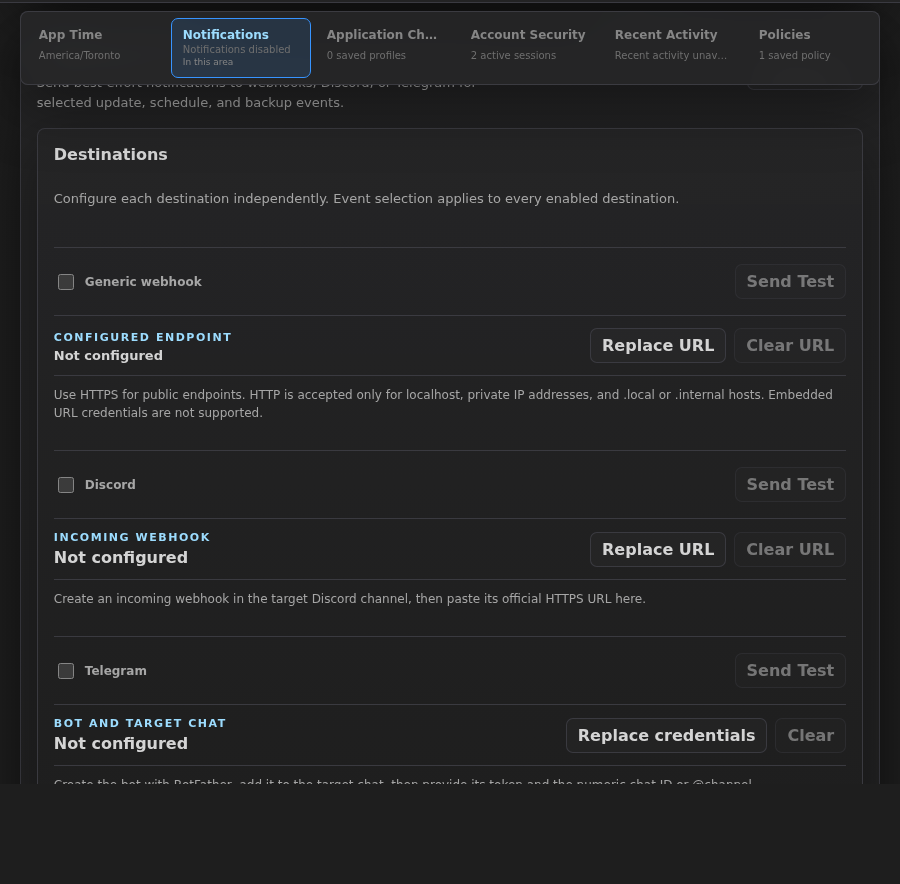
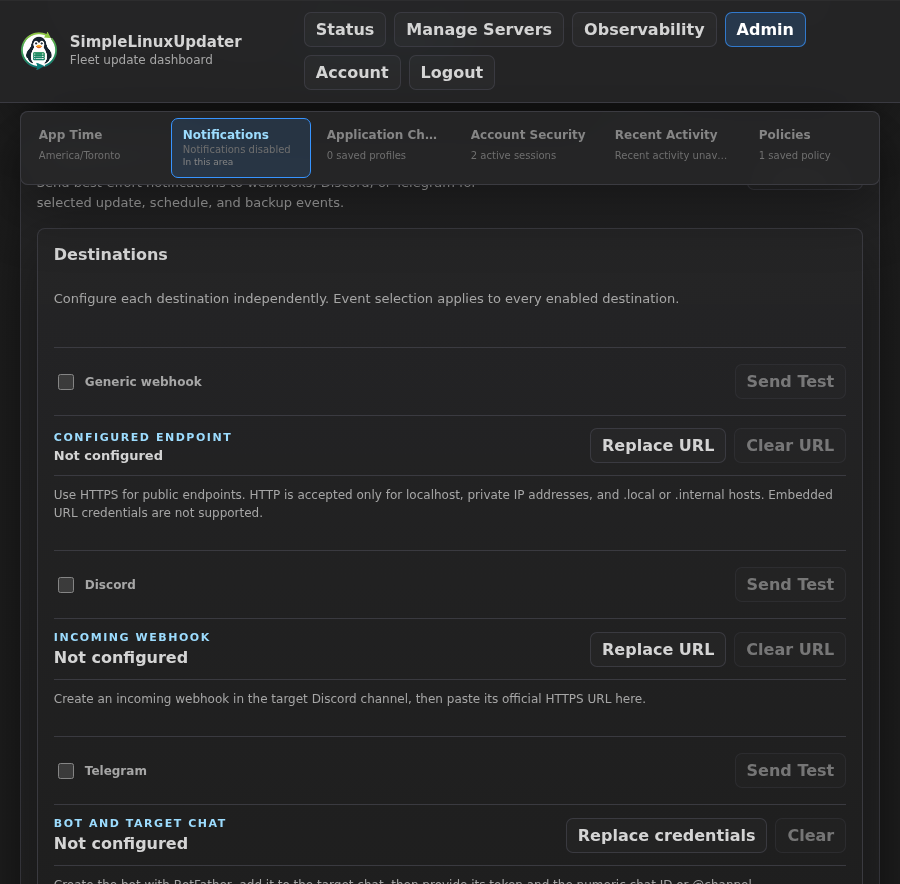
fix: mount section offsets with the active page lifecycle

diff --git a/tests/e2e/ui-responsive.spec.js b/tests/e2e/ui-responsive.spec.js
@@ -16,12 +16,27 @@ async function capture(page, testInfo, name) {
     }
 }
 async function navClearsHeader(page, prefix) {
-    await expect.poll(() => page.evaluate(prefix => {
+    const gap = () => page.evaluate(prefix => {
         const header = document.querySelector('.app-header');
         const pinned = ['sticky', 'fixed'].includes(getComputedStyle(header).position);
         const nav = document.getElementById(`${prefix}-section-nav`).getBoundingClientRect();
         return nav.top - (pinned ? header.getBoundingClientRect().bottom : 0);
-    }, prefix)).toBeGreaterThanOrEqual(7);
+    }, prefix);
+    await expect.poll(gap).toBeGreaterThanOrEqual(7);
+    await expect.poll(gap).toBeLessThanOrEqual(9);
+}
+async function scrollAndSettle(page, delta) {
+    const before = await page.evaluate(() => scrollY);
+    await page.mouse.wheel(0, delta);
+    await expect.poll(() => page.evaluate(() => scrollY)).not.toBe(before);
+    let previous, stable = 0;
+    await expect.poll(async () => {
+        const current = await page.evaluate(() => scrollY);
+        stable = current === previous ? stable + 1 : 0;
+        previous = current;
+        return stable;
+    }, { intervals: [20, 30, 40] }).toBeGreaterThanOrEqual(2);
+    await page.evaluate(() => new Promise(resolve => requestAnimationFrame(() => requestAnimationFrame(resolve))));
 }
 for (const prefix of ['manage', 'admin']) {
     test(`${prefix} section navigation clears the real header after tablet resize and deep links`, async ({ page }, testInfo) => {
@@ -29,11 +44,11 @@ for (const prefix of ['manage', 'admin']) {
         if (prefix === 'manage') await stubManageApi(page, { servers: [makeServer('responsive-host')] });
         else await stubAdminApi(page, {});
         const section = prefix === 'manage' ? 'import' : 'notifications';
-        await page.setViewportSize({ width: 768, height: 884 });
+        await page.setViewportSize({ width: 390, height: 884 });
         await page.goto(`/${prefix}#${prefix}-section-${section}`);
         const heading = page.locator(`#${prefix}-section-${section}-heading`);
         await expect(heading).toBeFocused();
-        for (const width of [768, 900, 1284, 700, 768]) {
+        for (const width of [390, 900, 1284, 900, 700, 768]) {
             await page.setViewportSize({ width, height: 884 });
             await navClearsHeader(page, prefix);
             await page.locator(`[data-${prefix}-section-link="${section}"]`).click();
@@ -44,9 +59,9 @@ for (const prefix of ['manage', 'admin']) {
                 return heading.top - nav.bottom;
             }, { prefix, section })).toBeGreaterThanOrEqual(0);
             await page.mouse.move(8, 400);
-            await page.mouse.wheel(0, 180);
+            await scrollAndSettle(page, 180);
             await navClearsHeader(page, prefix);
-            await page.mouse.wheel(0, -100);
+            await scrollAndSettle(page, -100);
             await navClearsHeader(page, prefix);
             await fitsDocument(page);
             await capture(page, testInfo, `${prefix}-${width}`);

diff --git a/static/js/section-navigation-adapter.js b/static/js/section-navigation-adapter.js
@@ -20,18 +20,6 @@
             container.style.setProperty("--app-header-offset", `${pinned ? Math.ceil(header.getBoundingClientRect().height) : 0}px`);
             container.style.setProperty("--section-nav-height", `${Math.ceil(nav.getBoundingClientRect().height)}px`);
         }
-        // Measure before fragment focus, including when load is still pending.
-        updateOffsets();
-        lifecycle.listen(window, "resize", updateOffsets);
-        if (root.ResizeObserver) {
-            const Observer = lifecycle.observer(root.ResizeObserver);
-            const offsets = new Observer(() => {
-                updateOffsets();
-                if (observing) schedule();
-            });
-            if (header) offsets.observe(header);
-            if (nav) offsets.observe(nav);
-        }
         function publish(event) {
             const before = interaction.getView().workspace.activeSection;
             // A same-document navigation changes the URL before hashchange runs.
@@ -96,6 +84,19 @@
             schedule();
         }
         function init(initialSectionID = "", navigate = () => {}) {
+            // Manage constructs this adapter before activating its lifecycle.
+            // Mount effects only after activation, before fragment focus/load.
+            updateOffsets();
+            lifecycle.listen(window, "resize", updateOffsets);
+            if (root.ResizeObserver) {
+                const Observer = lifecycle.observer(root.ResizeObserver);
+                const offsets = new Observer(() => {
+                    updateOffsets();
+                    if (observing) schedule();
+                });
+                if (header) offsets.observe(header);
+                if (nav) offsets.observe(nav);
+            }
             // Accept a card choice immediately, including while native fragment
             // focus is pending; geometry must retain that choice within a row.
             lifecycle.listen(document, "focusin", interact);

diff --git a/templates/admin.html b/templates/admin.html
@@ -1181,7 +1181,7 @@
     <script src="/static/js/admin-timezone-picker.js?v=frontend-isolation-20261027"></script>
     <script src="/static/js/scheduled-policy-administration-interaction.js?v=scheduled-autoremove-20261020"></script>
     <script src="/static/js/section-navigation.js?v=section-navigation-20261029"></script>
-    <script src="/static/js/section-navigation-adapter.js?v=ui-responsive-514-20261029"></script>
+    <script src="/static/js/section-navigation-adapter.js?v=ui-responsive-514-lifecycle-20261029"></script>
     <script src="/static/js/admin-page-interaction.js?v=admin-explicit-profile-20261029"></script>
     <script src="/static/js/admin-session-ip-reveal.js?v=frontend-isolation-20261027"></script>
     <script src="/static/js/application-postcheck-adapter.js?v=admin-profile-test-eligibility-20261029"></script>

diff --git a/templates/manage.html b/templates/manage.html
@@ -548,7 +548,7 @@
     <script src="/static/js/browser-effects.js?v=frontend-isolation-20261027"></script>
     <script src="/static/js/common.js?v=quality-pass-20260711b"></script>
     <script src="/static/js/section-navigation.js?v=section-navigation-20261029"></script>
-    <script src="/static/js/section-navigation-adapter.js?v=ui-responsive-514-20261029"></script>
+    <script src="/static/js/section-navigation-adapter.js?v=ui-responsive-514-lifecycle-20261029"></script>
     <script src="/static/js/manage-page-interaction.js?v=section-navigation-20261029"></script>
     <script src="/static/js/server-onboarding-interaction.js?v=server-onboarding-20261009"></script>
     <script src="/static/js/server-onboarding.js?v=frontend-isolation-20261027"></script>

diff --git a/.github/assets/ui-responsive-514/README.md b/.github/assets/ui-responsive-514/README.md
@@ -9,9 +9,11 @@ Reproduce with:
 SLU_CAPTURE_UI_514=1 npm run test:e2e -- tests/e2e/ui-responsive.spec.js --workers=2 --retries=0
 ```
 
-- `manage-{700,768,900,1284}.png` and `admin-{700,768,900,1284}.png`:
-  section navigation after a deep link, viewport changes and scrolling. The sticky
-  offset follows the measured header, including the static-header breakpoint.
+- `manage-{390,700,768,900,1284}.png` and `admin-{390,700,768,900,1284}.png`:
+  section navigation after a deep link, scrolling and mobile → tablet → desktop
+  → tablet → mobile transitions. The sticky offset follows the measured header,
+  including the static-header breakpoint. Capture waits for the real wheel scroll
+  to settle so the fixed header and nav are painted at their final positions.
 - `admin-loading-{320,390}.png` and `admin-unavailable-{320,390}.png`:
   delayed/failed Installation Health reads; wrapped controls fit without root overflow.
 - `observability-{320,390}.png`: metadata reflow with a long host option; tables
